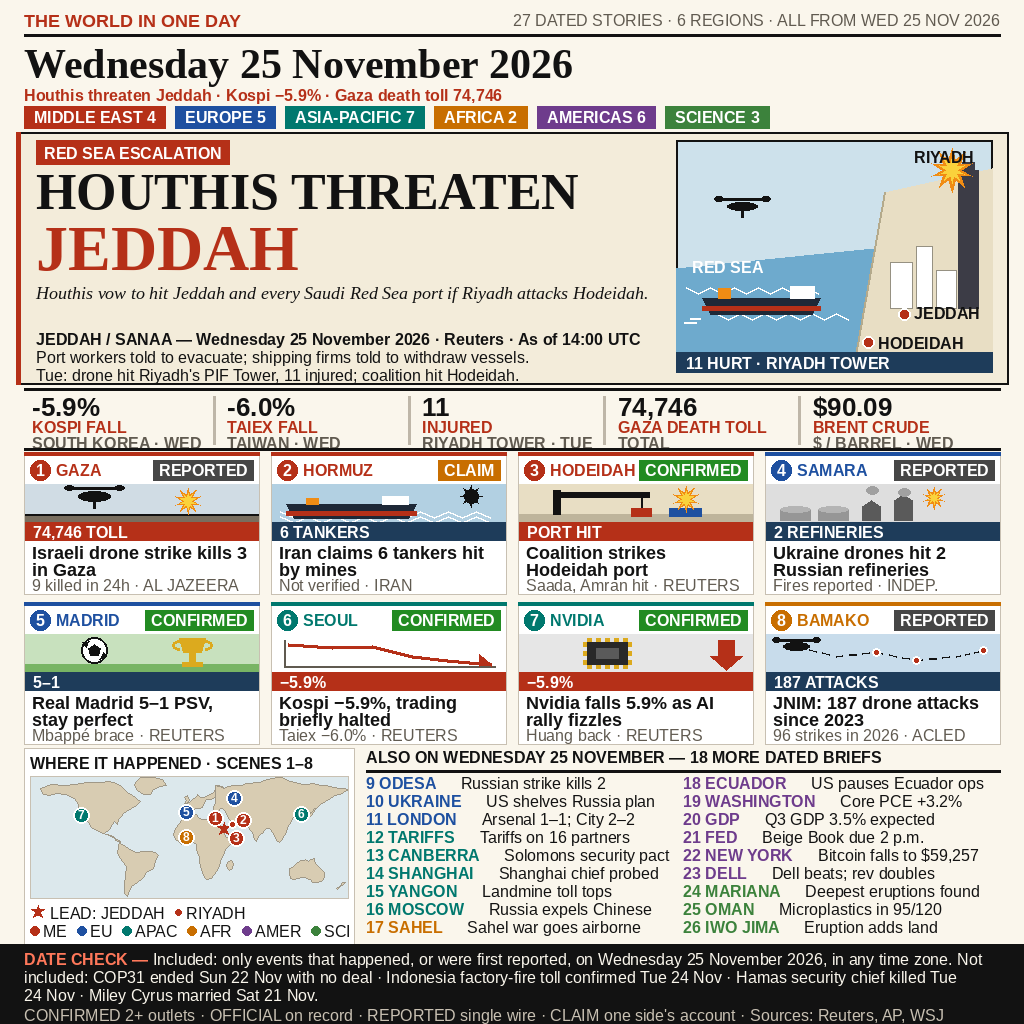
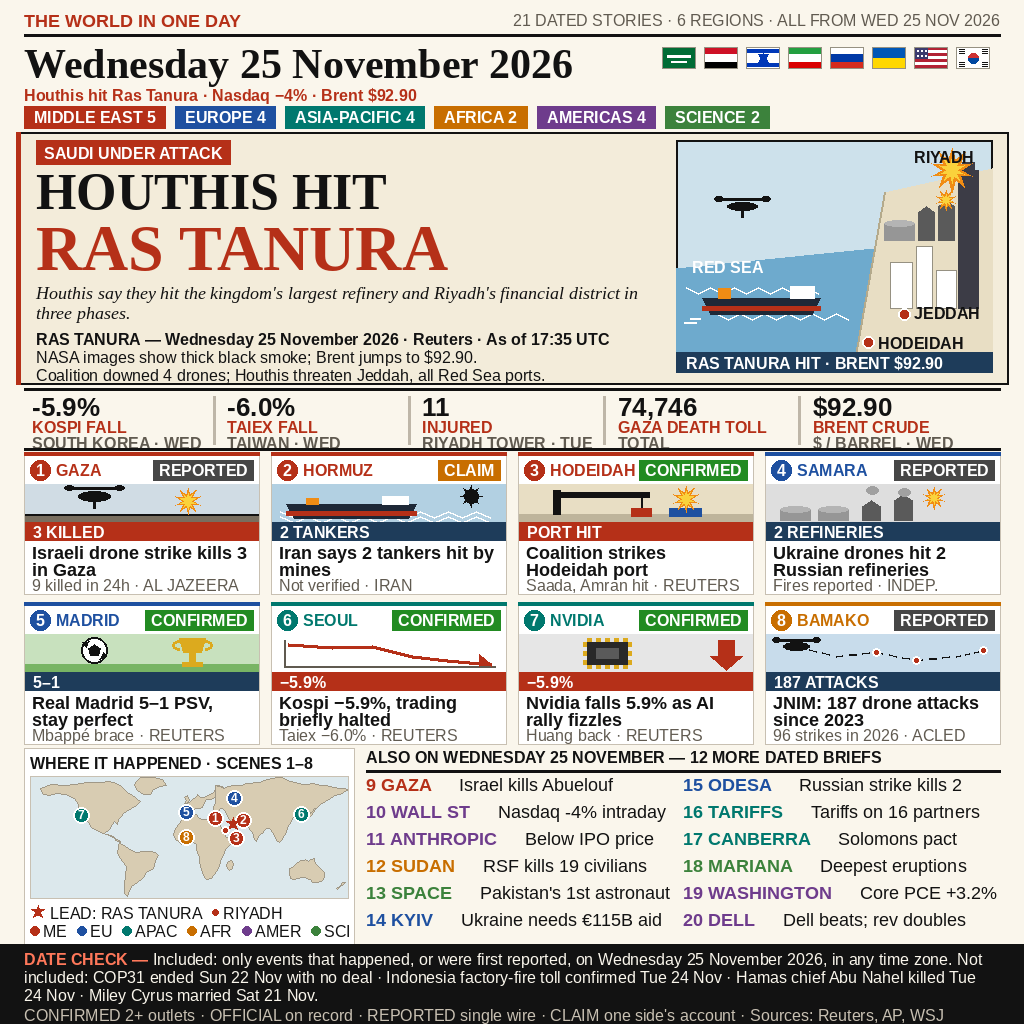
v2.2.1: Wednesday 25 November 2026 — The World in One Day (Ras Tanura lead, legibility, flag strip)

diff --git a/main.py b/main.py
@@ -3,29 +3,30 @@
 # newspaper front page drawn programmatically. This program copies it
 # byte-for-byte to /output/entry.png. No network, no dependencies.
 #
-# v2.1: direction A + illustrated cards (winner pattern of the 23 Nov edition:
-# regian #1 / pandya #2) + a world map. One dominant lead block (Houthis
-# threaten Jeddah, Red Sea escalation, Wednesday 25 November 2026) with a
-# vector Red Sea scene (tanker + drone + explosion + Jeddah skyline + PIF
-# Tower), 8 numbered illustrated story cards (vector scene + big stat +
-# status badge + region colour) across 6 regions, a "WHERE IT HAPPENED" world
-# map with numbered pins 1-8 in the cards' region colours plus a red star for
-# the lead (Jeddah) and a red dot for Riyadh, a labelled key-figures bar, 18
-# more dated briefs in an "ALSO ON" list (27 stories in total), and a two-way
-# DATE CHECK naming the other days' news left out on purpose (COP31 ended Sun
-# 22 Nov; Indonesia factory-fire toll confirmed Tue 24 Nov; Hamas security
-# chief killed Tue 24 Nov; Miley Cyrus married Sat 21 Nov). Every figure
-# carries its unit and context; the Iran Hormuz tanker claim is labelled
-# CLAIMED, not verified. Smallest type on the page is 16px so it stays
-# readable at 300px. No UTC timeline: the sources carry no per-story UTC
-# times, and inventing them would be fabrication; the lead carries an as-of
-# 14:00 UTC timestamp instead.
+# v2.2.1: direction A + illustrated cards (winner pattern of the 23 Nov edition:
+# regian #1 / pandya #2) + a world map + a masthead flag strip. One dominant lead
+# block (Houthis hit Ras Tanura refinery, Red Sea escalation, Wednesday 25 November
+# 2026, as of 17:35 UTC) with a vector Red Sea scene (tanker + drone + explosion +
+# refinery + Jeddah skyline + PIF Tower), 8 numbered illustrated story cards (vector
+# scene + big stat + status badge + region colour) across 6 regions, a "WHERE IT
+# HAPPENED" world map with numbered pins 1-8 in the cards' region colours plus a red
+# star for the lead (Ras Tanura) and a red dot for Riyadh, a labelled key-figures
+# bar, 12 more dated briefs in an "ALSO ON" list (21 stories in total), and a
+# two-way DATE CHECK naming the other days' news left out on purpose (COP31 ended
+# Sun 22 Nov; Indonesia factory-fire toll confirmed Tue 24 Nov; Hamas chief Abu
+# Nahel killed Tue 24 Nov; Miley Cyrus married Sat 21 Nov). Every figure carries
+# its unit and context; the Iran Hormuz tanker claim is labelled CLAIM, not
+# verified (2 tankers, not 6). Smallest type on the page is 18px so it stays
+# readable at 300px. The masthead carries a strip of 8 country flags (Saudi
+# Arabia, Yemen, Israel, Iran, Russia, Ukraine, USA, South Korea) to the right
+# of the title. No UTC timeline: the sources carry no per-story UTC times, and
+# inventing them would be fabrication.
 #
 # Outside the grader's container, MAKEFUN_OUTPUT_DIR stands in for /output:
 #   mkdir -p out && MAKEFUN_OUTPUT_DIR=out python3 main.py
 #
-# v2.1 entry.png sha256:
-# 21fe03de8c0ed8ffb6026c46b08c3aa9c13ee149ccbfe1e6696438b63f63eb65
+# v2.2.1 entry.png sha256:
+# 258f9de670ff4766c195e93a96c8df4c0a8893a5ca7dcc170259d6115d0aabfb
 
 import hashlib
 import os
